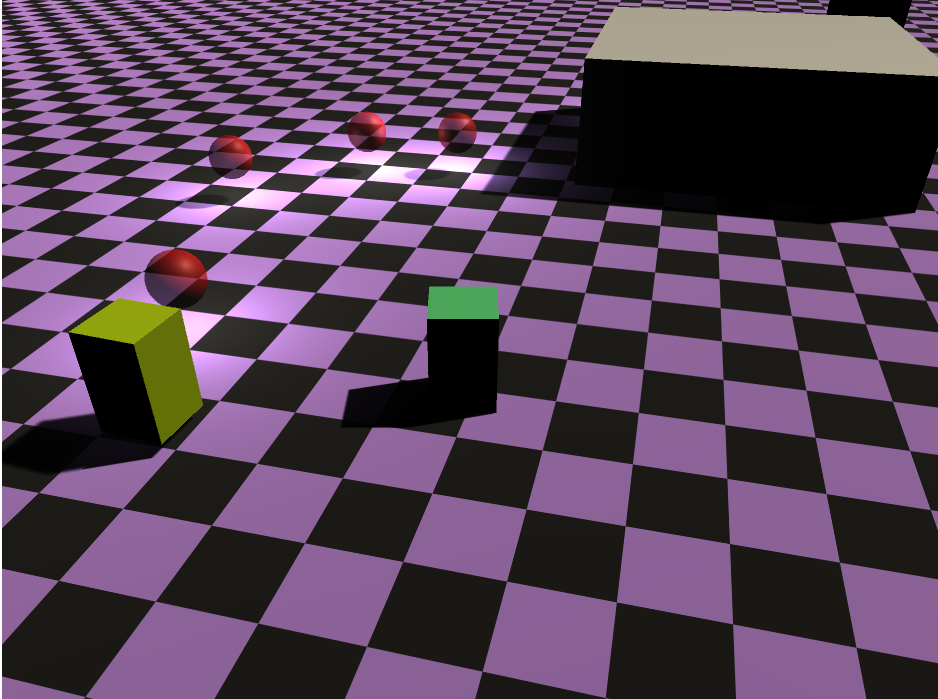
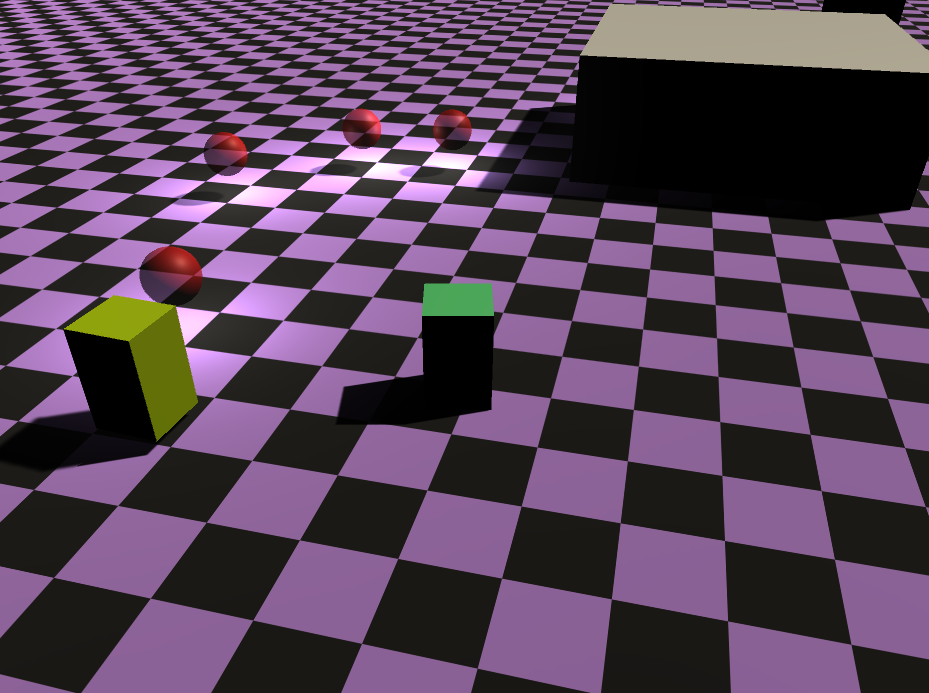
Fixed readme and screenshot image.

diff --git a/README.md b/README.md
@@ -1,4 +1,4 @@
 # Basic World Demo
 This unity demo shows using NetComms to implement multi-player games across different platforms.
 
-![Screen Shot](https://github.com/Malcolmnixon/BasicWorld/Screenshots/TwoPlayers.png)
+![Screen Shot](https://github.com/Malcolmnixon/BasicWorld/blob/master/Screenshots/TwoPlayers.png?raw=true	)
